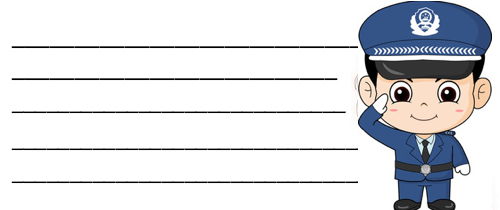
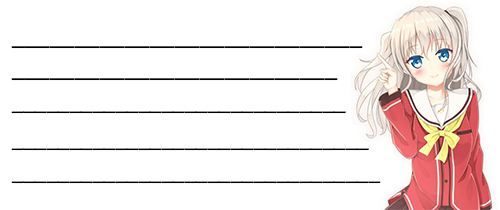
111

Changed region(s): [[0.69, 0.0, 0.99, 1.0]]

diff --git a/index.php b/index.php
@@ -2,7 +2,16 @@
 <?php include 'function.php';?>
 <?php
 header("Content-type: image/JPEG");
-$im = imagecreatefromjpeg( "xhxh.jpg"); 
+$r = rand(1,10);
+if($r < 3){
+    $im = imagecreatefromjpeg( "xhxh.jpg"); 
+}else if($r < 6){
+    $im = imagecreatefromjpeg( "xhxh1.jpg"); 
+}
+else{
+    $im = imagecreatefromjpeg( "xhxh2.jpg");  
+}
+
 $ip = $_SERVER["HTTP_X_FORWARDED_FOR"];// $_SERVER["REMOTE_ADDR"];
 $weekarray=array("日","一","二","三","四","五","六"); //先定义一个数组
 $get=$_GET["s"];
@@ -64,7 +73,7 @@ imagettftext($im, 15, 0, 10, 140, $black, $font,'您的IP是:'.$ip.'  :('.$count
 imagettftext($im, 15, 0, 10, 175, $black, $font,'您使用的是'.$os.'操作系统');
 imagettftext($im, 16, 0, 10, 205, $red, $font,$get);  
 // ImageGif($im);
-imagejpeg($im,null,10);
+imagejpeg($im,null,30);
 ImageDestroy($im);
 ?>
 <?php
